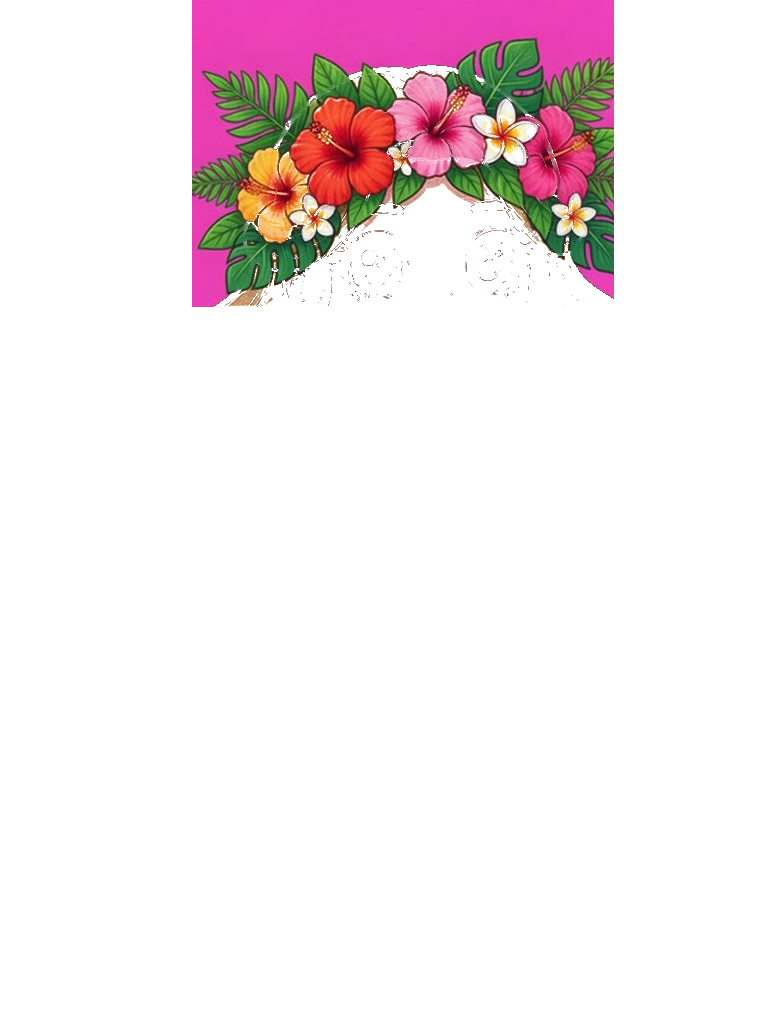
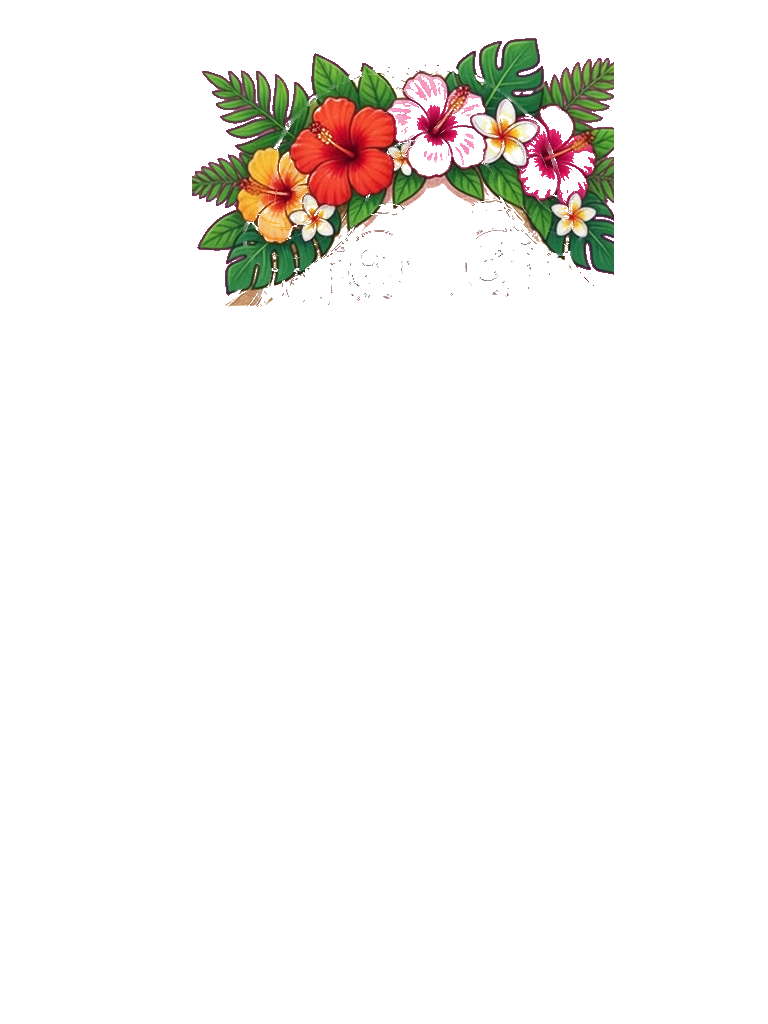
Strip pink key background from crown and Hold layers (v1.0.013)
Extraction left hot-pink transparent-key pixels around crowns (top) and
Hold items (right). Clear those pixels so only the accessory remains.

Changed region(s): [[0.25, 0.0, 0.8125, 0.3125], [0.75, 0.25, 0.8125, 0.3125], [0.7812, 0.1875, 0.8125, 0.2188]]

diff --git a/js/config.js b/js/config.js
@@ -1,7 +1,7 @@
 'use strict';
 
 // Mermaid Dress-Up — Keep CACHE in sw.js in sync: 'dress-up-mermaid-' + GAME_VERSION
-const GAME_VERSION = '1.0.012';
+const GAME_VERSION = '1.0.013';
 const GAME_VERSION_LABEL = 'v' + GAME_VERSION;
 const GAME_NAME = 'Mermaid Dress-Up';
 

diff --git a/sw.js b/sw.js
@@ -1,5 +1,5 @@
 // Mermaid Dress-Up — bump with GAME_VERSION in js/config.js
-const CACHE = 'dress-up-mermaid-1.0.012';
+const CACHE = 'dress-up-mermaid-1.0.013';
 
 const ASSETS = [
   './',
